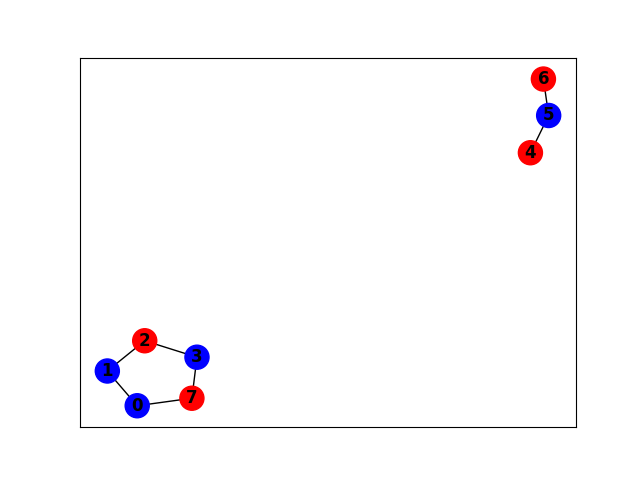
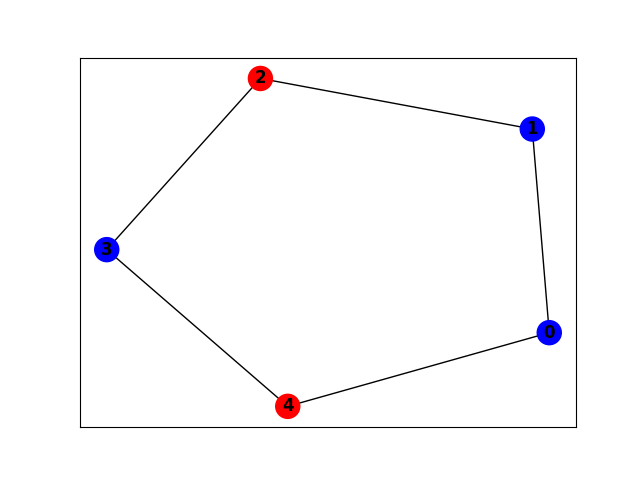
modified:   cluster_test.py 	new file:   mini_test.py 	modified:   three_cluster_cycle.py

diff --git a/net/mini_test.py b/net/mini_test.py
@@ -2,23 +2,22 @@
 """
 This is the most simple example to showcase Containernet.
 """
-from mininet.net import Containernet
-from mininet.node import Controller
+from mininet.net import Mininet
 from mininet.cli import CLI
 from mininet.link import TCLink
 from mininet.log import info, setLogLevel
 setLogLevel('info')
 
-net = Containernet(controller=Controller)
+net = Mininet()
 info('*** Adding controller\n')
 net.addController('c0')
 info('*** Adding docker containers\n')
-d1a = net.addDocker('d1a', ip='10.0.0.1', dimage="ubuntu:trusty")
-d1b = net.addDocker('d1b', ip='10.0.0.2', dimage="ubuntu:trusty")
-d2a = net.addDocker('d2a', ip='10.0.1.1', dimage="ubuntu:trusty")
-d2b = net.addDocker('d2b', ip='10.0.1.2', dimage="ubuntu:trusty")
-d3a = net.addDocker('d3a', ip='10.0.2.1', dimage="ubuntu:trusty")
-d3b = net.addDocker('d3b', ip='10.0.2.2', dimage="ubuntu:trusty")
+d1a = net.addHost('d1a', ip='10.0.0.1')
+d1b = net.addHost('d1b', ip='10.0.0.2')
+d2a = net.addHost('d2a', ip='10.0.1.1')
+d2b = net.addHost('d2b', ip='10.0.1.2')
+d3a = net.addHost('d3a', ip='10.0.2.1')
+d3b = net.addHost('d3b', ip='10.0.2.2')
 info('*** Adding switches\n')
 s1 = net.addSwitch('s1')
 s2 = net.addSwitch('s2')
@@ -32,15 +31,11 @@ net.addLink(d3a, s3)
 net.addLink(d3b, s3)
 net.addLink(s1, s2, cls=TCLink, delay='100ms', bw=1)
 net.addLink(s2, s3, cls=TCLink, delay='100ms', bw=1)
-net.addLink(s1, s3, cls=TCLink, delay='100ms', bw=1)
 info('*** Starting network\n')
 net.start()
 info('*** Testing connectivity\n')
 net.ping([d1a, d3b])
-net.ping([d1a, d2b])
-net.ping([d2a, d3b])
 info('*** Running CLI\n')
 CLI(net)
 info('*** /Stopping network')
 net.stop()
-

diff --git a/net/cluster_test.py b/net/cluster_test.py
@@ -54,9 +54,16 @@ if __name__ == "__main__":
         arr.append(Node(i))
         G.add_node(arr[i].ID)
 
+    #Create an all-all graph
+    #for i in range(0, num):
+    #    for j in range(i, num):
+    #        if i != j:
+    #            createEdge(arr[i], arr[j])
+
+    #Create a simple cyclic graph
     for i in range(0, num):
         createEdge(arr[i], arr[(i + 1) % num])
-        #drawGraph(arr, i)
+    #    drawGraph(arr, i)
 
     drawGraph(arr, -1)
     info(arr)
